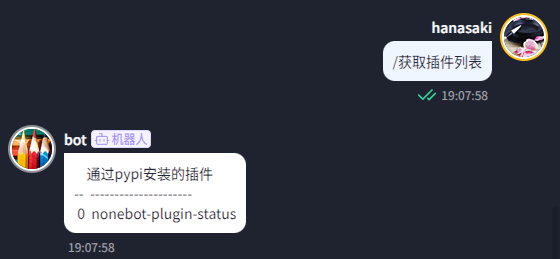
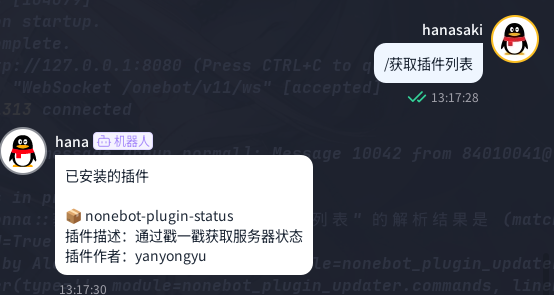
🔥 移除htmlrender的启动加载

Changed region(s): [[0.0, 0.4324, 0.583, 1.0], [0.6751, 0.0309, 0.9819, 0.4015]]

diff --git a/nonebot_plugin_updater/utils/common.py b/nonebot_plugin_updater/utils/common.py
@@ -6,23 +6,36 @@ import importlib_metadata
 import toml
 
 from ..config import plugin_config
-from .models import NBResponse, PluginInfo
+from .models import NBPluginMetadata, PluginInfo
 
 
-async def get_plugin_latest_version(package_name: str) -> str:
+async def get_store_plugins() -> list[NBPluginMetadata]:
+    """获取nb商店中的所有插件
+
+    Returns:
+        list[NBPluginMetadata]: 插件元信息列表
+    """
     async with httpx.AsyncClient() as ctx:
         response: httpx.Response = await ctx.get(
             f'{plugin_config.github_proxy}/https://raw.githubusercontent.com/nonebot/registry/results/plugins.json'
         )
         if response.status_code == 200:
-            data: list[NBResponse] = [NBResponse(**item) for item in response.json()]
-            for d in data:
-                if d.project_link == package_name:
-                    return d.version
-        return 'None'
+            data: list[NBPluginMetadata] = [
+                NBPluginMetadata(**item) for item in response.json()
+            ]
+            return data
+    raise httpx.NetworkError('获取nb商店插件信息失败')
 
 
 def find_project_root() -> Path:
+    """获取项目根目录
+
+    Raises:
+        FileNotFoundError: 无法找到项目根目录
+
+    Returns:
+        Path: 项目根目录
+    """
     for parent in Path(__file__).parents:
         if (parent / 'pyproject.toml').exists():
             return parent
@@ -30,51 +43,86 @@ def find_project_root() -> Path:
 
 
 def get_plugin_module_list() -> list[str]:
-    project_root = find_project_root()
+    """从项目根目录下的pyproject.toml中获取已安装的插件列表
+
+    Returns:
+        list[str]: 已安装的插件列表
+    """
+    project_root: Path = find_project_root()
     pyproject_path: Path = project_root / 'pyproject.toml'
     config: dict[str, Any] = toml.load(pyproject_path)
     plugin_list: list[str] = config['tool']['nonebot']['plugins']
     return plugin_list
 
 
-async def get_plugin_info_list(plugin_list: list[str]) -> list[NBResponse]:
-    plugin_info_list: list[NBResponse] = []
-    async with httpx.AsyncClient() as ctx:
-        response: httpx.Response = await ctx.get(
-            f'{plugin_config.github_proxy}/https://raw.githubusercontent.com/nonebot/registry/results/plugins.json'
-        )
-        if response.status_code == 200:
-            data: list[NBResponse] = [NBResponse(**item) for item in response.json()]
-            for d in data:
-                if d.project_link in plugin_list:
-                    plugin_info_list.append(d)
+async def get_plugin_info_list(plugin_list: list[str]) -> list[NBPluginMetadata]:
+    """获取插件信息列表
+
+    Args:
+        plugin_list (list[str]): 插件列表
+
+    Returns:
+        list[NBPluginMetadata]: 插件元数据列表
+    """
+    plugin_info_list: list[NBPluginMetadata] = []
+    store_plugins: list[NBPluginMetadata] = await get_store_plugins()
+    for plugin in store_plugins:
+        if plugin.project_link in plugin_list:
+            plugin_info_list.append(plugin)
     return plugin_info_list
 
 
 async def get_plugin_update_list() -> list[PluginInfo]:
-    plugin_module_list = get_plugin_module_list()
+    """获取可用的插件更新列表
+
+    Returns:
+        list[PluginInfo]: 可用的插件更新列表
+    """
+    plugin_module_list: list[str] = get_plugin_module_list()
     plugin_update_list: list[PluginInfo] = []
     for module in plugin_module_list:
         # 过滤本地插件
-        async with httpx.AsyncClient() as ctx:
-            response: httpx.Response = await ctx.get(
-                f'{plugin_config.github_proxy}/https://raw.githubusercontent.com/nonebot/registry/results/plugins.json'
-            )
-            if response.status_code == 200:
-                data: list[NBResponse] = [
-                    NBResponse(**item) for item in response.json()
-                ]
-                for d in data:
-                    if module in d.module_name:
-                        plugin = module.replace('_', '-')
-                        current_version: str = importlib_metadata.version(module)
-                        lastest_version: str = await get_plugin_latest_version(plugin)
-                        if current_version != lastest_version:
-                            plugin_update_list.append(
-                                PluginInfo(
-                                    name=plugin,
-                                    current_version=current_version,
-                                    latest_version=lastest_version,
-                                )
-                            )
+        store_plugins: list[NBPluginMetadata] = await get_store_plugins()
+        for plugin in store_plugins:
+            if module in plugin.module_name:
+                current_version: str = importlib_metadata.version(module)
+                lastest_version: str = plugin.version
+                if current_version != lastest_version:
+                    plugin_update_list.append(
+                        PluginInfo(
+                            name=plugin.project_link,
+                            current_version=current_version,
+                            latest_version=lastest_version,
+                        )
+                    )
     return plugin_update_list
+
+
+def plugin_info_text_builder(plugin_list: list[NBPluginMetadata]) -> str:
+    """生成插件信息文本
+
+    Args:
+        plugin_list (list[NBPluginMetadata]): 插件列表
+
+    Returns:
+        str:生成的插件信息文本
+    """
+    msg: str = '已安装的插件\n'
+    for plugin in plugin_list:
+        msg += f'\n📦 {plugin.project_link}\n插件描述：{plugin.desc}\n插件作者：{plugin.author}'
+    return msg
+
+
+def plugin_update_text_builder(plugin_update_list: list[PluginInfo]) -> str:
+    """生成可更新插件文本
+
+    Args:
+        plugin_update_list (list[PluginInfo]): 可更新的插件列表
+
+    Returns:
+        str: 生成的可更新插件文本
+    """
+    msg: str = '可更新的插件\n'
+    for plugin in plugin_update_list:
+        msg += f'\n📦 {plugin.name}\n🔖 {plugin.current_version} --> {plugin.latest_version}'
+    return msg

diff --git a/nonebot_plugin_updater/commands.py b/nonebot_plugin_updater/commands.py
@@ -5,16 +5,16 @@ from typing import Any
 
 from nonebot import require
 from nonebot.permission import SUPERUSER
-from tabulate import tabulate
 
 from .config import plugin_config
-from .utils.addition_for_htmlrender import template_element_to_pic
 from .utils.common import (
     get_plugin_info_list,
     get_plugin_module_list,
     get_plugin_update_list,
+    plugin_info_text_builder,
+    plugin_update_text_builder,
 )
-from .utils.models import NBResponse, PluginInfo
+from .utils.models import NBPluginMetadata, PluginInfo
 from .utils.updater import Updater
 
 require('nonebot_plugin_alconna')
@@ -58,14 +58,14 @@ async def _() -> None:
     plugin_list: list[str] = []
     for moudle in plugin_module_list:
         plugin_list.append(moudle.replace('_', '-'))
+    plugin_info_list: list[NBPluginMetadata] = await get_plugin_info_list(plugin_list)
     if plugin_config.info_send_mode == 'text':
-        headers: list[str] = ['通过pypi安装的插件']
-        table: list[list[str]] = [[plugin for plugin in plugin_list]]
         msg: UniMessage[Text] | UniMessage[Image] = UniMessage().text(
-            tabulate(table, headers, showindex=True)
+            plugin_info_text_builder(plugin_info_list)
         )
     else:
-        plugin_info_list: list[NBResponse] = await get_plugin_info_list(plugin_list)
+        from .utils.addition_for_htmlrender import template_element_to_pic
+
         template_path: Path = Path(__file__).parent / 'templates'
         img: bytes = await template_element_to_pic(
             str(template_path),
@@ -73,7 +73,6 @@ async def _() -> None:
             templates={'plugins': plugin_info_list},
             element='#container',
             wait=2,
-            omit_background=True,
         )
         msg = UniMessage().image(raw=img)
     await g_plugin_list.finish(msg)
@@ -83,23 +82,19 @@ async def _() -> None:
 async def _() -> None:
     plugin_update_list: list[PluginInfo] = await get_plugin_update_list()
     if plugin_config.info_send_mode == 'text':
-        headers: list[str] = ['plugin name', 'version']
-        table: list[list[str]] = [
-            [plugin.name, plugin.current_version + '-->' + plugin.latest_version]
-            for plugin in plugin_update_list
-        ]
         msg: UniMessage[Text] | UniMessage[Image] = UniMessage().text(
-            tabulate(table, headers, showindex=True)
+            plugin_update_text_builder(plugin_update_list)
         )
     else:
+        from .utils.addition_for_htmlrender import template_element_to_pic
+
         template_path: Path = Path(__file__).parent / 'templates'
-        img = await template_element_to_pic(
+        img: bytes = await template_element_to_pic(
             str(template_path),
             template_name='check_plugin_update.jinja2',
             templates={'plugins': plugin_update_list},
             element='#container',
             wait=2,
-            omit_background=True,
         )
         msg = UniMessage().image(raw=img)
     await check_update.finish(msg)
@@ -114,7 +109,7 @@ async def _(plugin_name: Match[str] = AlconnaMatch('plugin_name')) -> None:
                 await update_plugin.finish('所有插件已是最新')
             else:
                 await update_plugin.send('正在更新插件中……')
-                updater = Updater(plugin_update_list)
+                updater: Updater = Updater(plugin_update_list)
                 await updater.do_update()
         elif plugin_name.result in [plugin.name for plugin in plugin_update_list]:
             await update_plugin.send('正在更新插件中……')

diff --git a/nonebot_plugin_updater/__init__.py b/nonebot_plugin_updater/__init__.py
@@ -3,7 +3,7 @@ from nonebot.plugin import PluginMetadata, inherit_supported_adapters
 from .commands import check_update, g_plugin_list, update_plugin
 from .config import Config
 
-__version__ = '0.1.7'
+__version__ = '0.1.8'
 __plugin_meta__ = PluginMetadata(
     name='nb插件更新器',
     description='一款全新的检测已安装插件更新情况的插件',

diff --git a/nonebot_plugin_updater/utils/addition_for_htmlrender.py b/nonebot_plugin_updater/utils/addition_for_htmlrender.py
@@ -6,7 +6,7 @@ import jinja2
 from nonebot import logger, require
 
 require('nonebot_plugin_htmlrender')
-from nonebot_plugin_htmlrender import get_new_page, md_to_pic  # noqa: E402, F401
+from nonebot_plugin_htmlrender import get_new_page  # noqa: E402, F401
 
 
 async def template_element_to_pic(

diff --git a/nonebot_plugin_updater/utils/models.py b/nonebot_plugin_updater/utils/models.py
@@ -8,7 +8,7 @@ class Tag(BaseModel):
     color: str
 
 
-class NBResponse(BaseModel):
+class NBPluginMetadata(BaseModel):
     module_name: str
     project_link: str
     name: str

diff --git a/README.md b/README.md
@@ -90,8 +90,6 @@
 
 ⚠ 此处示例中的"/"为 nb 默认的命令开始标志，若您设置了另外的标志，则请使用您设置的标志作为开头
 
-调用插件的主命令为"天气"
-
 |             指令              |    权限    | 需要@ |                           说明                            |               示例                |
 | :---------------------------: | :--------: | :---: | :-------------------------------------------------------: | :-------------------------------: |
 |        `获取插件列表`         |     无     |  无   |                   获取已安装的插件列表                    |          `/获取插件列表`          |
@@ -103,7 +101,7 @@
 ### 🚩 TODO
 
 - [x] 使用 html 渲染插件列表及插件更新列表
-- [ ] 处理插件模块名与 project_link 不一致的插件
+- [x] 处理插件模块名与 project_link 不一致的插件
 - [ ] 添加安装/删除插件的功能
 
 ## 致谢
